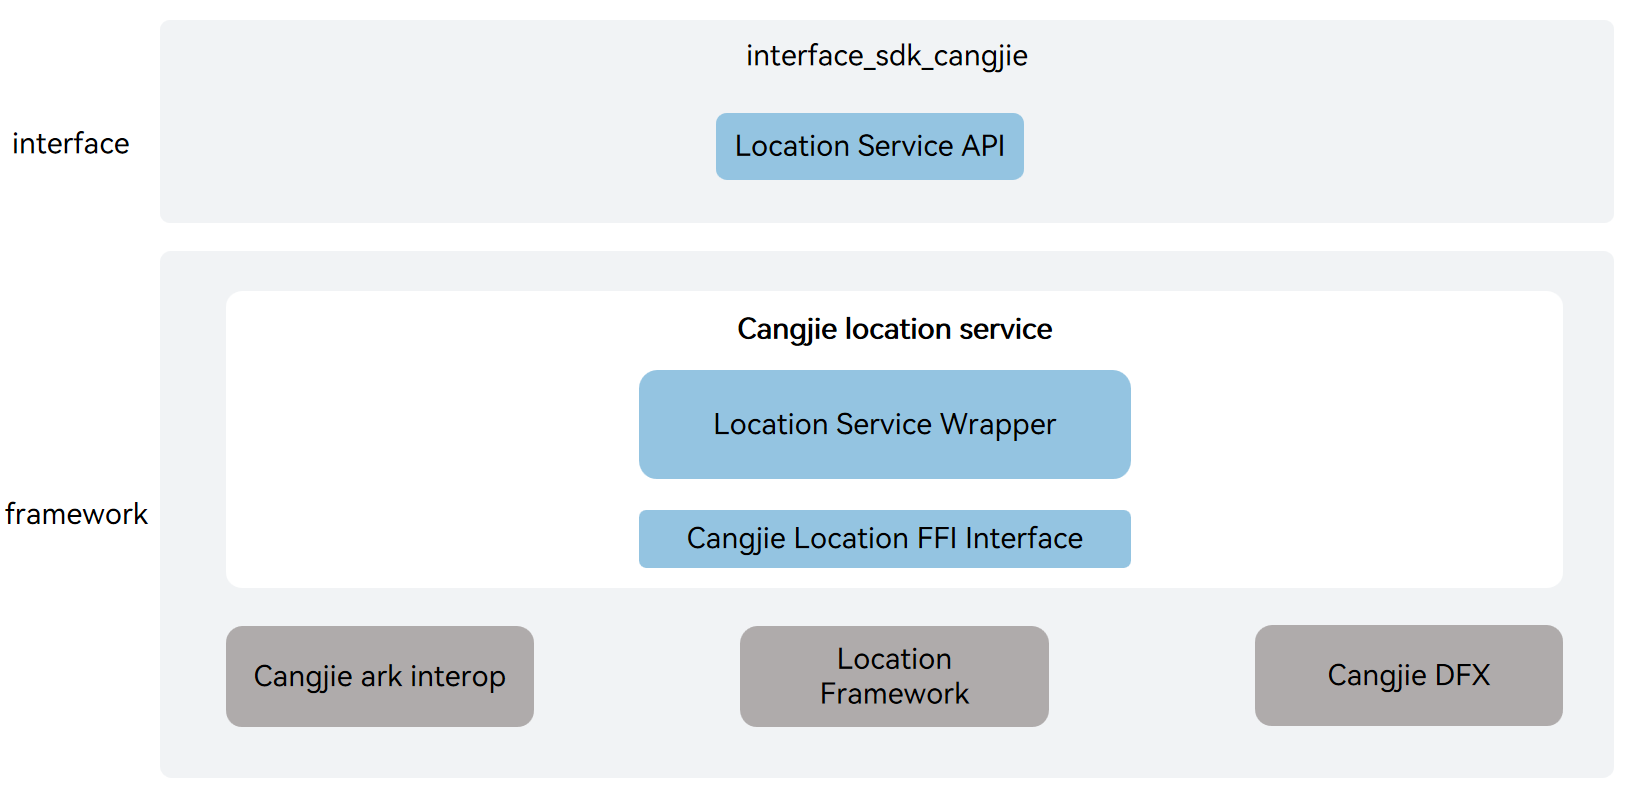
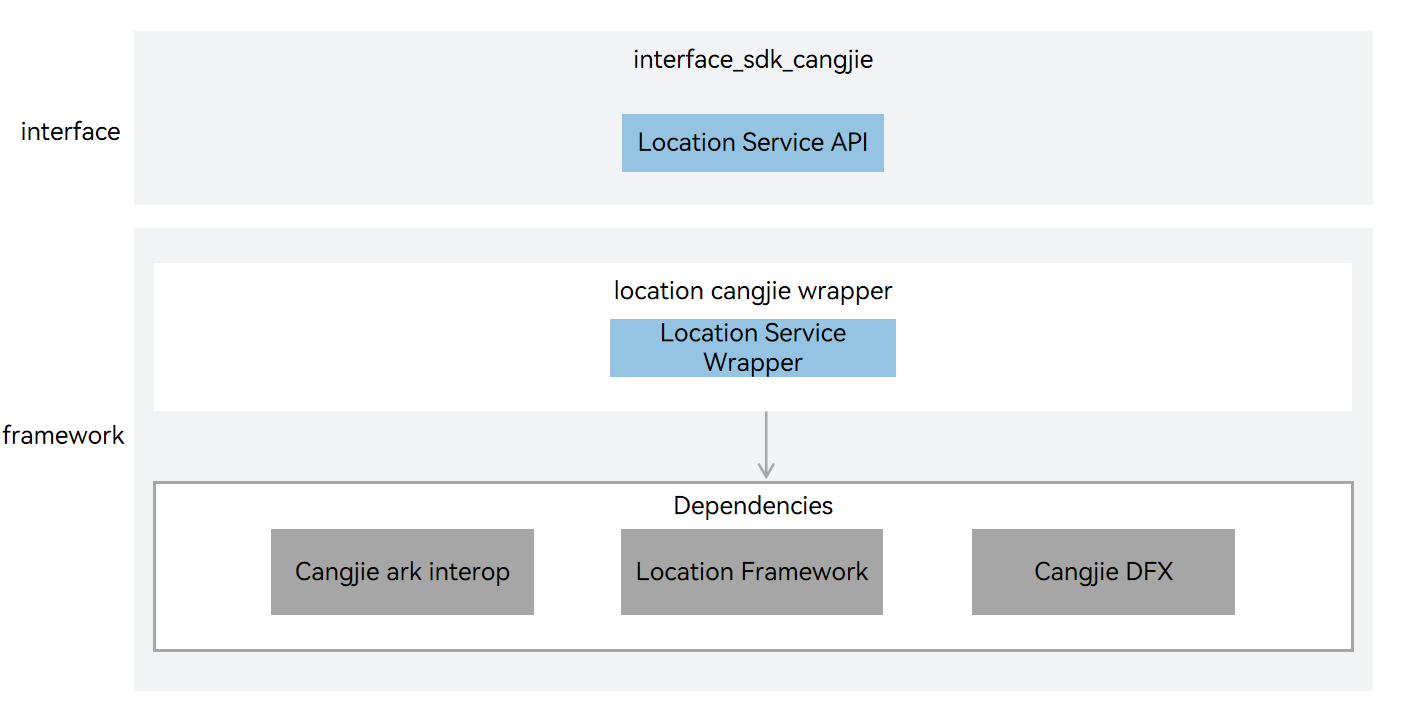
Adjust the architecture

diff --git a/README.md b/README.md
@@ -2,17 +2,11 @@
 
 ## Introduction
 
-The location_cangjie_wrapper is a Cangjie API encapsulated on OpenHarmony based on the capabilities of the Location Component. Mobile terminal devices have been deeply integrated into all aspects of people's daily lives, such as checking the weather in their city, news stories, calling for rides, travel navigation, and fitness tracking. These common activities all rely on locating the user's terminal device.
-
-When users are in these rich usage scenarios, the system's location capability can provide real-time and accurate location data. For developers, designing location-based services can make the application experience more personalized for each user.
-
-When applications implement device location-based features, such as driving navigation or recording exercise routes, they can call the module's API interfaces to obtain location information.
-
-The currently open location service Cangjie interface only supports standard devices.
+The location_cangjie_wrapper is a Cangjie API encapsulated on OpenHarmony for developers to use location service capabilities for application development. The system's location capability can provide real-time and accurate location data. For developers, designing location-based services can make the application experience more personalized for each user. The currently open location service Cangjie interface only supports standard devices.
 
 **Basic Concepts**
 
-Location capability is used to determine where the user's device is located. The system uses location coordinates to indicate the device's position and provides services through multiple positioning technologies, such as GNSS positioning, base station positioning, and WLAN/Bluetooth positioning (base station positioning, WLAN/Bluetooth positioning are collectively referred to as "network positioning technology"). Through these positioning technologies, the device's location can be accurately determined whether the user's device is indoors or outdoors.
+Location capability is used to determine where the user's device is located. The system uses location coordinates to indicate the device's position and provides services through GNSS positioning technology. Through these positioning technologies, the device's location can be accurately determined whether the user's device is indoors or outdoors.
 
 -   **Coordinate**
 
@@ -22,13 +16,7 @@ Location capability is used to determine where the user's device is located. The
 
     Based on the Global Navigation Satellite System, including GPS, GLONASS, BeiDou, Galileo, etc., it determines the device's accurate location through navigation satellites and the positioning algorithms provided by the device chip. The specific positioning systems used in the positioning process depend on the hardware capabilities of the user's device.
 
--   **Base station positioning**
-
-    Estimates the device's current location based on the position of the current network base station and neighboring base stations. The positioning accuracy of this method is relatively low and requires the device to access the cellular network.
-
--   **WLAN and Bluetooth positioning**
-
-    Estimates the device's current location based on the positions of surrounding WLAN and Bluetooth devices that can be detected by the device. The positioning accuracy of this method depends on the distribution of visible fixed WLAN and Bluetooth devices around the device. When the density is high, the accuracy is higher compared to base station positioning, and it also requires the device to access the network.
+## System Architecture
 
 **Figure 1** location_cangjie_wrapper architecture**  
 
@@ -38,18 +26,17 @@ As illustrated in the architecture diagram:
 
 Interface layer description:
 
-- Location Service API: Cangjie public interfaces based on location service encapsulation exposed to users.
+- Location Service API: Provides Cangjie public interface declarations for obtaining the current location and checking if the location service is enabled. When using the location service API, please turn on the device's "Location" switch.
 
 Framework layer description:
 
-- Location Service Wrapper: Provides Cangjie encapsulation method implementations for obtaining the current location and checking if the location service is enabled.
-- Cangjie Location Services FFI Wrapper Definition: Responsible for defining the C language interoperability interface for Cangjie, aimed at implementing Cangjie location service capabilities.
+- Location Service Wrapper: Provides Cangjie encapsulation method implementations for obtaining the current location and checking if the location service is enabled. This encapsulation layer is a Cangjie encapsulation implementation of location service functionality based on the location service component.
 
 Cangjie Location Service Dependencies:
 
-- Cangjie Interop: Encapsulates public interfaces for C language interoperation, and provides Cangjie tag class implementation for annotating Cangjie APIs, as well as providing BusinessException exception class definitions thrown to users.
-- Location Service Framework: Provides C language interfaces for basic location services that can be called by the location service Cangjie interface through calling underlying GNSS driver interfaces.
-- Cangjie DFX: Responsible for providing log interfaces, providing Cangjie interfaces that can be called by the location service Cangjie interface to print logs at critical paths.
+- cangjie_ark_interop: Encapsulates public interfaces for C language interoperation, and provides Cangjie tag class implementation for annotating Cangjie APIs, as well as providing BusinessException exception class definitions thrown to users.
+- Location Service Component: Provides basic functions such as GNSS positioning, network positioning (cellular base station, WLAN, Bluetooth positioning technology), geocoding, country code, and geofencing by calling underlying GNSS driver interfaces.
+- hiviewdfx_cangjie_wrapper: Responsible for providing log interfaces, providing Cangjie interfaces that can be called by the location service Cangjie interface to print logs at critical paths.
 
 ## Directory Structure
 
@@ -82,27 +69,12 @@ Since the location information is considered sensitive, your application still n
 
 Compared with the API capabilities provided by ArkTS, the following functionalities are currently not supported:
 
-- Registers a listener for location changes with a location request initiated.
-- Unregisters the listener for location changes with the corresponding location request deleted.
-- Registers a listener for location service status change events.
-- Unregisters the listener for location service status change events.
-- Registers a listener for cached GNSS location reports.
-- Unregisters the listener for cached GNSS location reports.
-- Registers a listener for satellite status change events.
-- Unregisters the listener for satellite status change events.
-- Registers a listener for GNSS NMEA message change events.
-- Unregisters the listener for GNSS NMEA message change events.
-- Registers a listener for status change events of the specified geofence.
-- Unregisters the listener for status change events of the specified geofence.
-- Obtains the previous location.
-- Requests to enable the location service. 
-- Enables the location service.
-- Disables the location service. 
-- Obtains the number of cached GNSS locations.
-- Obtains all cached GNSS locations and clears the GNSS cache queue. 
-- Sends extended commands to the location subsystem. 
-- Checks whether a user agrees with the privacy statement of the location service. 
-- Sets the user confirmation status for the privacy statement of the location service.
+- Network positioning: Including cellular base station positioning, WLAN positioning, and Bluetooth positioning technology.
+- Historical location acquisition: Obtaining the most recently cached location information.
+- Geofencing services: Geofencing is a virtual geographic boundary function that can receive automatic notifications and alerts when a device enters or leaves a specific geographic area.
+- Geocoding services: The geocoding function provides conversion between address information and geographic coordinates.
+- Location listener services: Supports registering location change listeners to continuously receive location updates.
+- Location status management: Determining whether the geocoding service is available and obtaining country code information.
 
 ## Code Contribution
 

diff --git a/README_zh.md b/README_zh.md
@@ -2,17 +2,11 @@
 
 ## 简介
 
-位置服务仓颉接口是在 OpenHarmony 上面向开发者进行应用开发使用的位置服务能力之上封装的仓颉API。移动终端设备已经深入人们日常生活的方方面面，如查看所在城市的天气、新闻轶事、出行打车、旅行导航、运动记录。这些习以为常的活动，都离不开定位用户终端设备的位置。
-
-当用户处于这些丰富的使用场景中时，系统的位置能力可以提供实时准确的位置数据。对于开发者，设计基于位置体验的服务，也可以使应用的使用体验更贴近每个用户。
-
-当应用在实现基于设备位置的功能时，如：驾车导航，记录运动轨迹等，可以调用该模块的API接口，完成位置信息的获取。
-
-当前开放的位置服务仓颉接口仅支持standard设备。
+位置服务仓颉封装是在 OpenHarmony 上面向开发者进行应用开发使用的位置服务能力之上封装的仓颉API。系统的位置能力可以提供实时准确的位置数据，对于开发者，设计基于位置体验的服务，也可以使应用的使用体验更贴近每个用户。当前开放的位置服务仓颉接口仅支持standard设备。
 
 **基本概念**
 
-位置能力用于确定用户设备在哪里，系统使用位置坐标标示设备的位置，并用多种定位技术提供服务，如GNSS定位、基站定位、WLAN/蓝牙定位（基站定位、WLAN/蓝牙定位后续统称"网络定位技术"）。通过这些定位技术，无论用户设备在室内或是户外，都可以准确地确定设备位置。
+位置能力用于确定用户设备在哪里，系统使用位置坐标标示设备的位置，并用GNSS定位技术提供服务。通过这些定位技术，无论用户设备在室内或是户外，都可以准确地确定设备位置。
 
 -   **坐标**
 
@@ -22,13 +16,8 @@
 
     基于全球导航卫星系统，包含：GPS、GLONASS、北斗、Galileo等，通过导航卫星，设备芯片提供的定位算法，来确定设备准确位置。定位过程具体使用哪些定位系统，取决于用户设备的硬件能力。
 
--   **基站定位**
 
-    根据设备当前驻网基站和相邻基站的位置，估算设备当前位置。此定位方式的定位结果精度相对较低，并且需要设备可以访问蜂窝网络。
-
--   **WLAN、蓝牙定位**
-
-    根据设备可搜索到的周围WLAN、蓝牙设备位置，估算设备当前位置。此定位方式的定位结果精度依赖设备周围可见的固定WLAN、蓝牙设备的分布，密度较高时，精度也相较于基站定位方式更高，同时也需要设备可以访问网络。
+## 系统架构
 
 **图 1** **子系统架构图**  
 
@@ -38,19 +27,18 @@
 
 接口层说明：
 
-- 位置服务API：基于位置服务封装面向开发者开放的仓颉公开接口声明。
+- 位置服务接口：提供获取当前位置、提供判断位置服务是否开启的仓颉公开接口声明，使用位置服务API时请打开设备“位置”开关。
 
 框架层说明：
 
 - 位置服务封装：提供获取当前位置、提供判断位置服务是否开启的仓颉封装方法实现。该封装层是基于位置服务组件对位置服务功能进行的仓颉封装实现。
-- 仓颉位置服务 FFI封装定义：负责定义被Cangjie语言调用的C语言互操作接口，用于实现仓颉位置服务能力。
 
 仓颉位置服务依赖部件引入说明：
 
-- 仓颉互操作：封装C语言互操作公共接口，并提供仓颉标签类实现用于对仓颉API进行标注，以及提供抛向用户的BusinessException异常类定义。
-- 位置服务组件：通过调用底层GNSS驱动接口，提供可被位置服务仓颉接口调用的位置服务基本功能的C语言接口。
-- 仓颉DFX：负责提供日志接口，提供可被位置服务仓颉接口调用的在关键路径处打印日志能力的仓颉接口。
-
+- 位置服务组件：通过调用底层GNSS驱动接口，提供GNSS定位、网络定位（蜂窝基站、WLAN、蓝牙定位技术）、地理编码、国家码和地理围栏等基本功能。
+- cangjie_ark_interop：封装C语言互操作公共接口，并提供仓颉标签类实现用于对仓颉API进行标注，以及提供抛向用户的BusinessException异常类定义。
+- hiviewdfx_cangjie_wrapper：负责提供日志接口，提供可被位置服务仓颉接口调用的在关键路径处打印日志能力的仓颉接口。
+  
 ## 目录
 
 ```
@@ -62,7 +50,6 @@ base/location/location_cangjie_wrapper
 │   └── geo_location_manager          # geo_location_manager仓颉接口代码目录
 └── test                              # 测试用例代码
     └── geolocationmanager            # 位置管理测试
-        └── test                      # 位置管理测试工程
 ```
 
 ## 使用说明
@@ -71,7 +58,7 @@ base/location/location_cangjie_wrapper
 - 获取当前位置功能
 - 判断位置服务是否已经打开功能
 
-Location相关API使用请参见[geo_location_manager API 参考](https://gitcode.com/openharmony-sig/arkcompiler_cangjie_ark_interop/tree/master/doc/API_Reference/source_zh_cn/apis/LocationKit)，相关接口使用指导请参见[Location开发指南](https://gitcode.com/openharmony-sig/arkcompiler_cangjie_ark_interop/tree/master/doc/Dev_Guide/source_zh_cn/location/cj-location-guidelines.md)。
+Location相关API使用请参见[Location API 参考](https://gitcode.com/openharmony-sig/arkcompiler_cangjie_ark_interop/tree/master/doc/API_Reference/source_zh_cn/apis/LocationKit)，相关接口使用指导请参见[Location开发指南](https://gitcode.com/openharmony-sig/arkcompiler_cangjie_ark_interop/tree/master/doc/Dev_Guide/source_zh_cn/location/cj-location-guidelines.md)。
 
 ## 约束
 
@@ -80,27 +67,12 @@ Location相关API使用请参见[geo_location_manager API 参考](https://gitcod
 设备位置信息属于用户敏感数据，所以即使用户已经开启位置开关，应用在获取设备位置前仍需向用户申请位置访问权限。在用户确认允许后，系统才会向应用提供位置服务。
 
 与ArkTS提供的API能力相比，暂不支持以下功能：
-- 开启位置变化订阅，并发起定位请求
-- 关闭位置变化订阅，并删除对应的定位请求
-- 订阅位置服务状态变化
-- 取消订阅位置服务状态变化
-- 订阅缓存GNSS位置上报
-- 取消订阅缓存GNSS位置上报
-- 订阅卫星状态信息更新事件
-- 取消订阅卫星状态信息更新事件
-- 订阅GNSS NMEA信息上报
-- 取消订阅GNSS NMEA信息上报
-- 添加围栏，并订阅该围栏事件上报
-- 删除围栏，并取消订阅该围栏事件
-- 获取上一次位置
-- 请求打开位置服务
-- 打开位置服务
-- 关闭位置服务
-- 获取缓存GNSS位置的个数
-- 获取所有的GNSS缓存位置，并清空GNSS缓存队列
-- 给位置服务子系统发送扩展命令
-- 查询用户是否同意定位服务的隐私申明
-- 设置并记录用户是否同意定位服务的隐私申明
+- 网络定位：包括蜂窝基站定位、WLAN定位和蓝牙定位技术。
+- 获取历史位置：获取最近一次缓存的位置信息。
+- 地理围栏服务：地理围栏是一种虚拟地理边界功能，当设备进入或离开特定地理区域时，可以接收自动通知和警告。
+- 地理编码服务：地理编码功能提供地址信息与地理坐标之间的转换。
+- 位置监听服务：支持注册位置变化监听器，持续接收位置更新。
+- 位置状态管理：判断地理编码服务是否可用，获取国家码信息。
 
 ## 参与贡献
 
@@ -113,6 +85,5 @@ Location相关API使用请参见[geo_location_manager API 参考](https://gitcod
 [base_location](https://gitcode.com/openharmony/base_location/blob/master/README.md)
 
 [arkcompiler_cangjie_ark_interop](https://gitcode.com/openharmony-sig/arkcompiler_cangjie_ark_interop/blob/master/README_zh.md)
-
 
 [hiviewdfx_hiviewdfx_cangjie_wrapper](https://gitcode.com/openharmony-sig/hiviewdfx_hiviewdfx_cangjie_wrapper/blob/master/README_zh.md)
